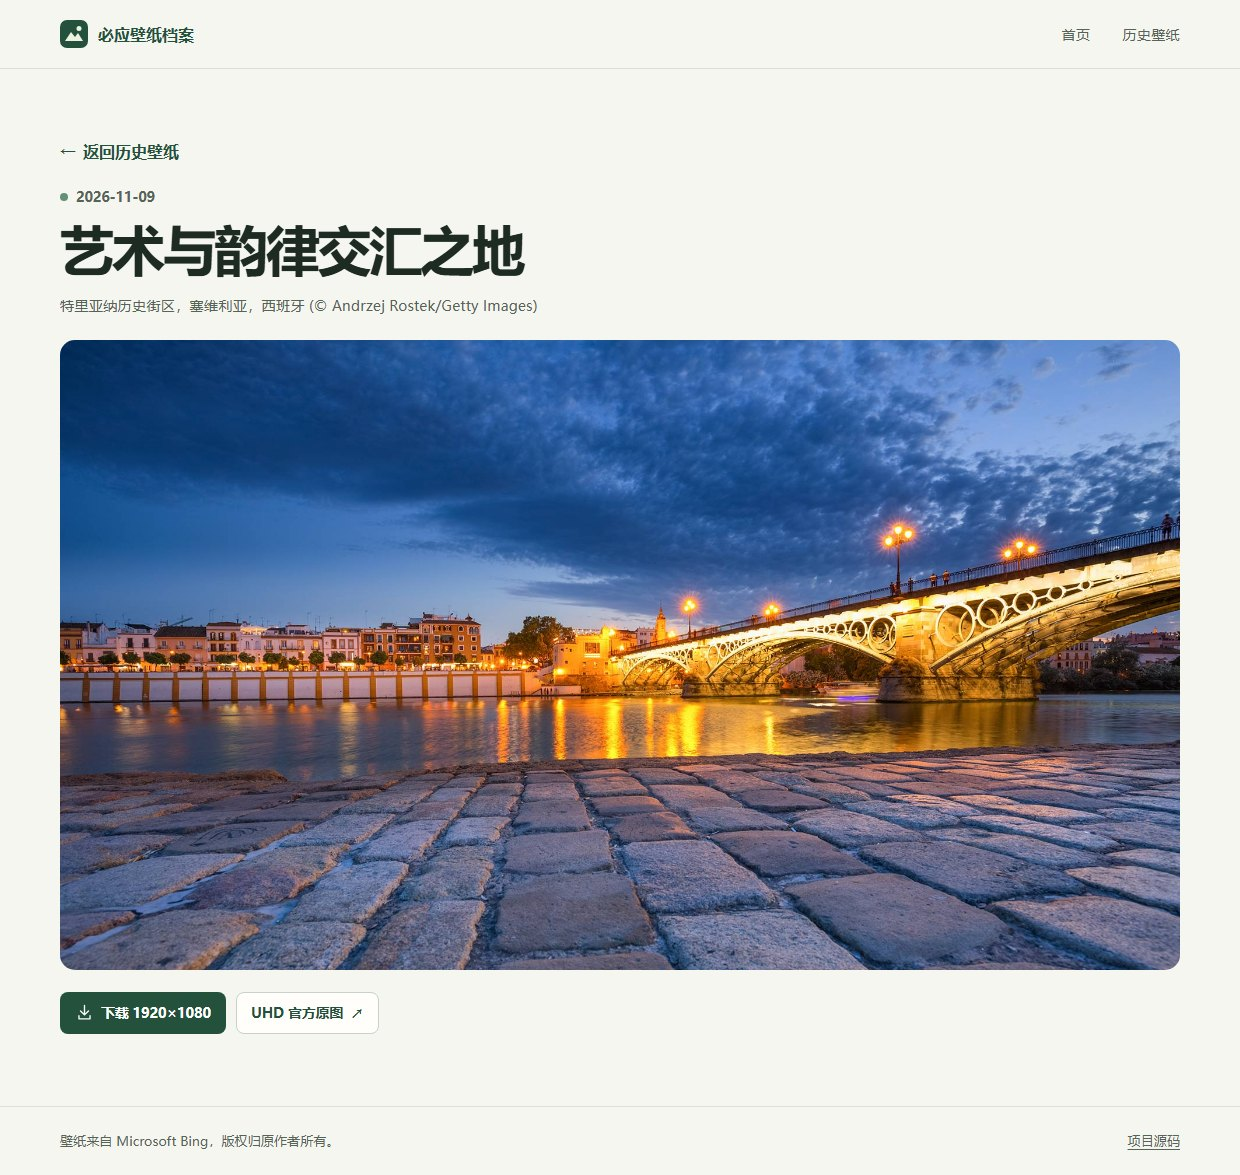
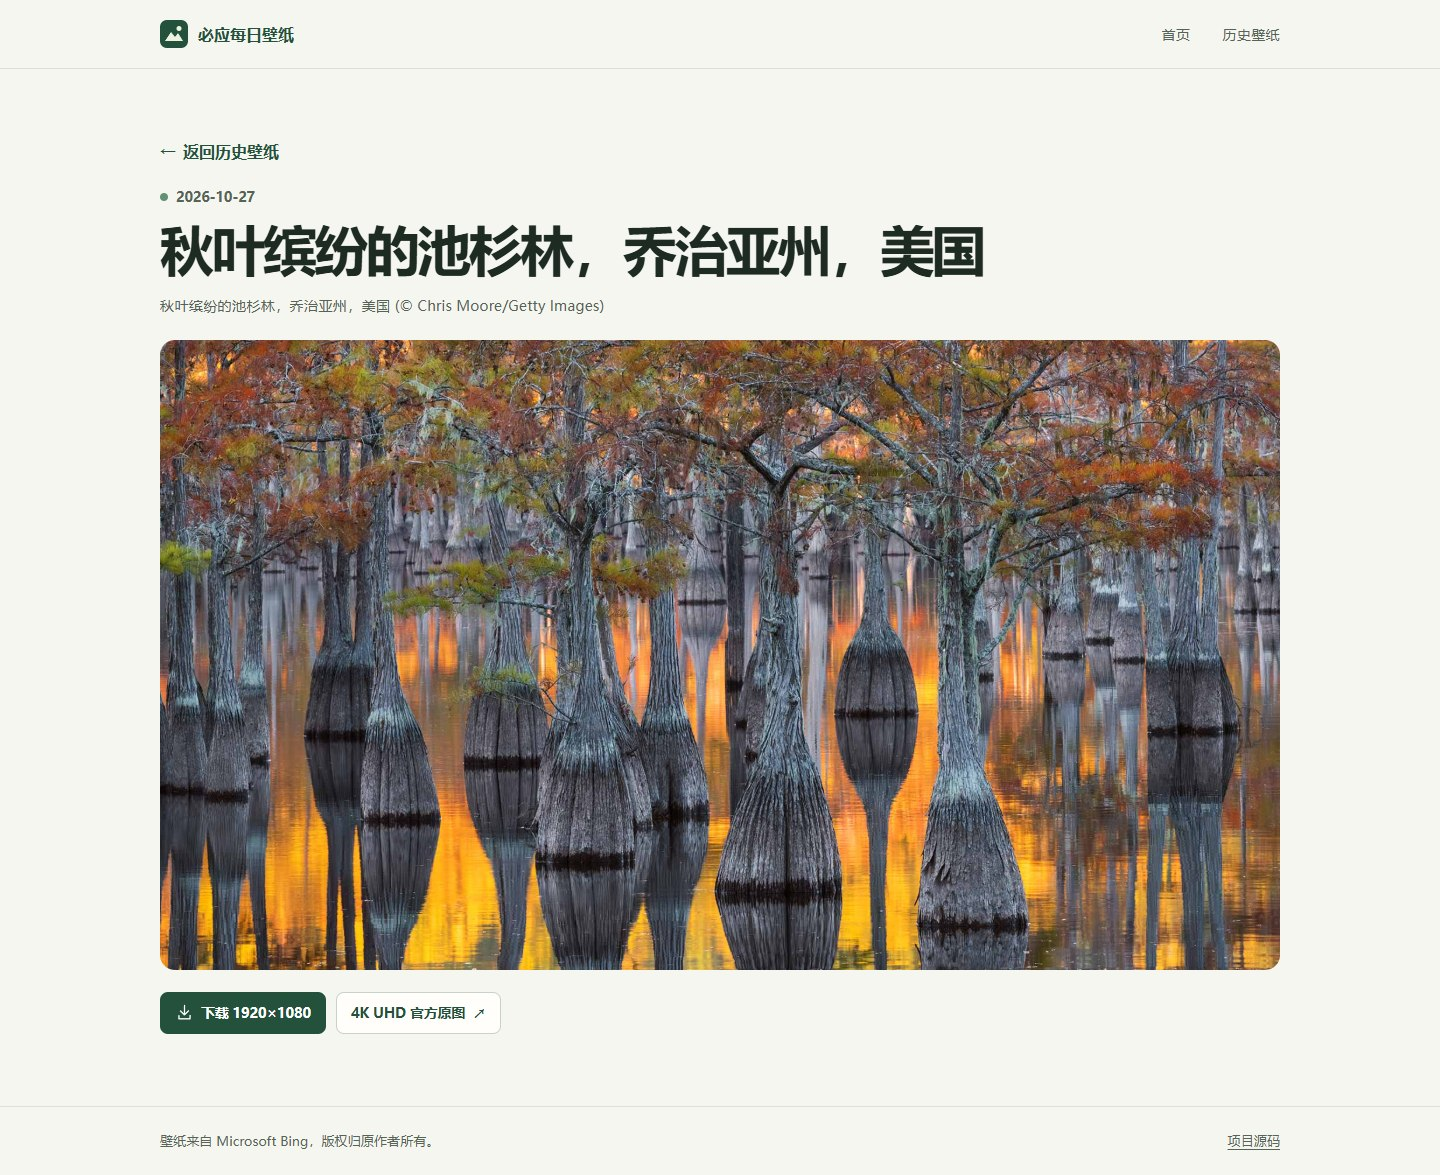
Refresh README screenshots with populated wallpaper archive

diff --git a/README.md b/README.md
@@ -8,15 +8,17 @@
 
 ### 首页与历史归档
 
-![桌面首页展示最新壁纸和按月浏览的历史列表](docs/screenshots/home.jpg)
+首页展示最新壁纸，历史列表支持按月浏览，每页展示 9 张壁纸。下图以 2026 年 10 月的 31 张归档壁纸为例。
+
+![桌面首页展示最新壁纸、月份筛选、9 张历史壁纸和分页按钮](docs/screenshots/home.jpg)
 
 ### 壁纸详情与下载
 
-![壁纸详情展示日期、版权信息、高清下载与 UHD 原图入口](docs/screenshots/detail.jpg)
+![壁纸详情展示日期、版权信息、1920×1080 下载与 4K UHD 官方原图入口](docs/screenshots/detail.jpg)
 
 ### 移动端
 
-<img src="docs/screenshots/mobile.jpg" alt="手机上浏览最新壁纸和历史归档的页面" width="360">
+<img src="docs/screenshots/mobile.jpg" alt="手机上浏览最新壁纸、按月筛选的多张历史壁纸和分页按钮" width="360">
 
 ## 本地运行
 
